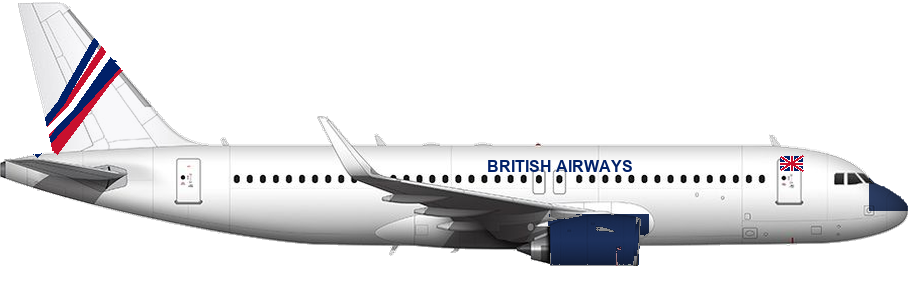
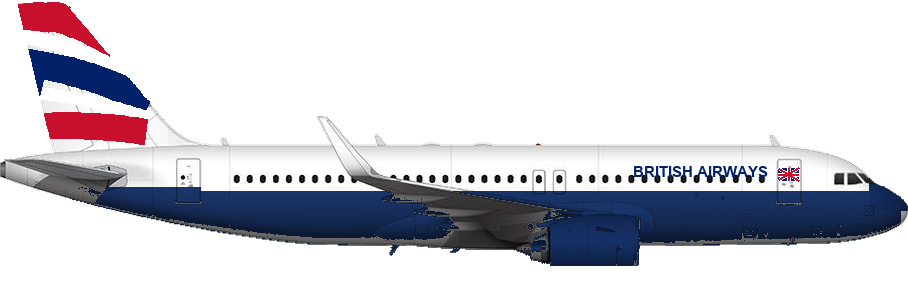
Repaint the British Airways A320 to match the Chatham photo.
Add the dark blue belly and nose, and replace the thin tail stripes with the Union Flag ribbons from the reference.

diff --git a/flight-simulator-2026/index.html b/flight-simulator-2026/index.html
@@ -153,7 +153,7 @@
   <script src="js/input.js?v=hump38"></script>
   <script src="js/hud.js?v=hump38"></script>
   <script src="js/loading.js?v=hump38"></script>
-  <script src="js/game.js?v=a320liv2"></script>
+  <script src="js/game.js?v=a320liv3"></script>
   <script src="js/mobile.js?v=hump38"></script>
   <script src="js/menu.js?v=free1"></script>
   <script src="js/main.js"></script>

diff --git a/flight-simulator-2026/js/game.js b/flight-simulator-2026/js/game.js
@@ -58,7 +58,7 @@ class Game {
       const load = (file, key) => {
         const img = new Image();
         img.onload = () => { pack[key] = img; };
-        img.src = `${base}${file}?v=liv2`;
+        img.src = `${base}${file}?v=liv3`;
       };
       load(`${prefix}-gearup.png`, "up");
       load(`${prefix}-geardown.png`, "down");
